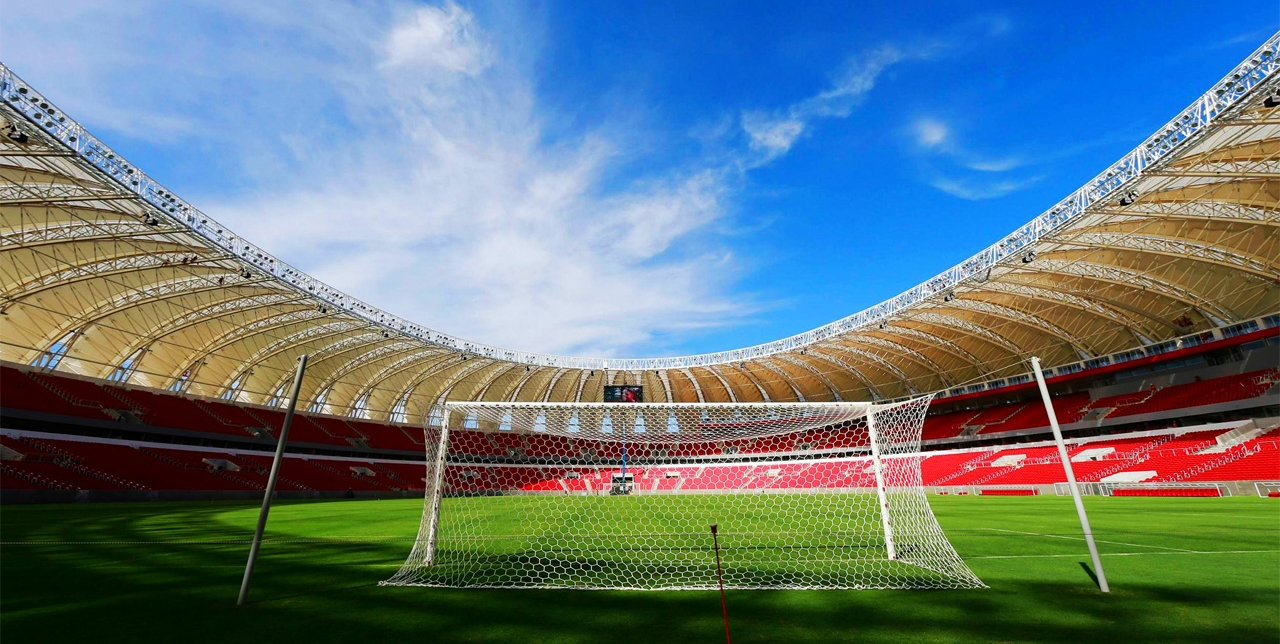
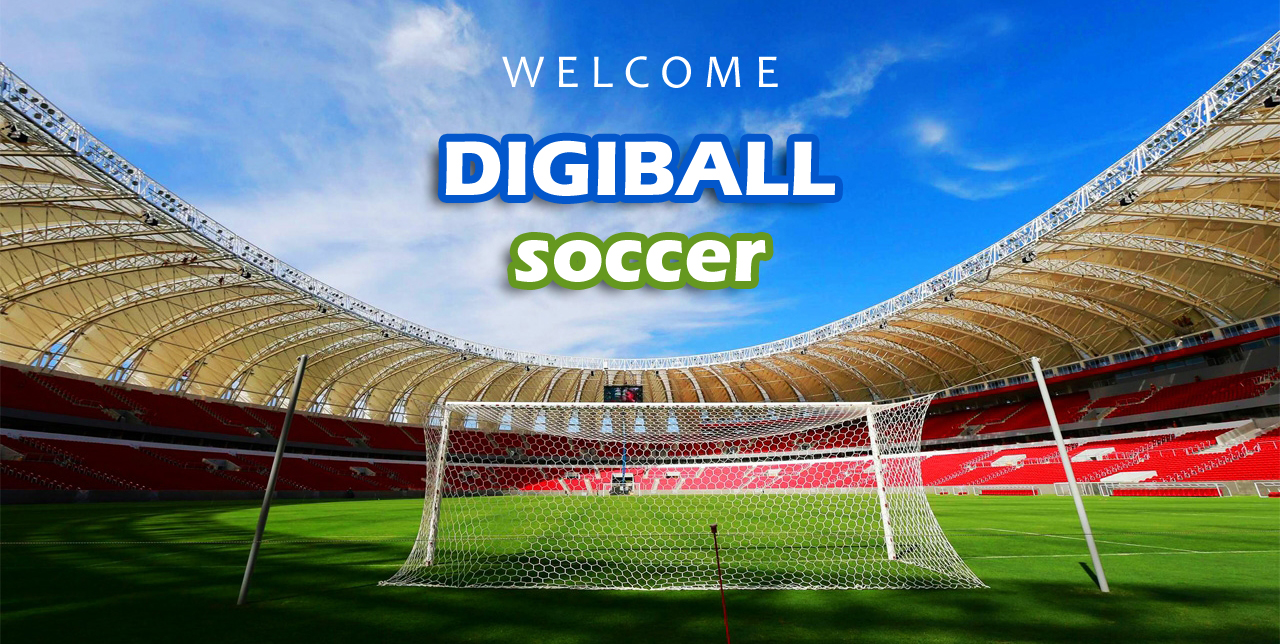
design updates

diff --git a/public/js/menu.js b/public/js/menu.js
@@ -10,7 +10,7 @@ var menuState = {
 
 		game.add.sprite(0, 0, 'stadium');
 
-		var nameLabel = game.add.text(80, 80, 'Digiball Soccer', {font: '50px Arial', fill: '#ffffff', align: "center"});
+		//var nameLabel = game.add.text(80, 80, 'Digiball Soccer', {font: '50px Arial', fill: '#ffffff', align: "center"});
 
 		//var startLabel = game.add.text(80, game.world.height-80, 'Press the W key to start', {font: '25px Arial', fill: '#ffffff'});
 
@@ -18,7 +18,7 @@ var menuState = {
 
 		//wkey.onDown.addOnce(this.start, this);
 
-		var button = game.add.button(game.world.centerX - 50, 410, 'button', start, this, 2, 1, 0);
+		var button = game.add.button(game.world.centerX - 70, 420, 'button', start, this, 2, 1, 0);
 
 	},
 
